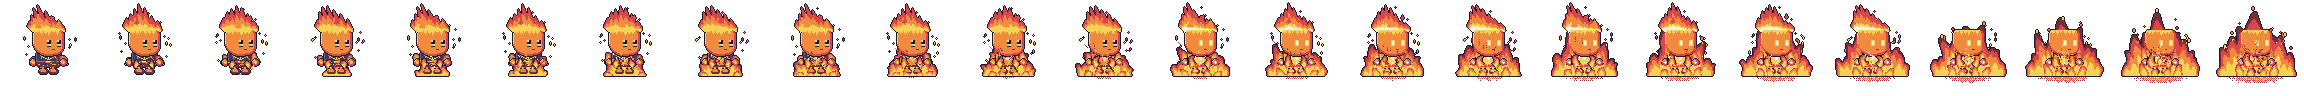
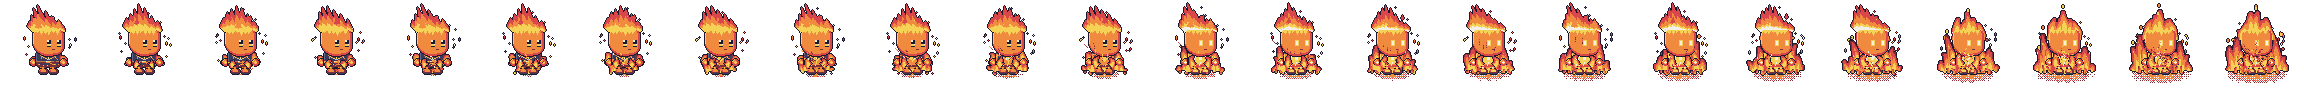
Inferno: tall flame crown, body-width blaze, broken ragged base, hollow front flames
Claude-Session: https://claude.ai/code/session_01J8LgTLVYzThXjNSRVhWqep

Changed region(s): [[0.125, 0.0938, 1.0, 0.8125], [0.5, 0.4688, 0.5625, 0.5625]]

diff --git a/tools/sprites/generate.py b/tools/sprites/generate.py
@@ -939,9 +939,10 @@ def flint(step=None, t=0, heat=0.0, form=False):
         flame_tongue(up, root, [r + (q - r) * reach for r, q in zip(root, ctrl)], [r + (q - r) * reach for r, q in zip(root, tip)],
                (t + k * 2) * math.pi / 2, wide=2.5 + heat)
     if form:  # flames licking up over his legs and hem in front of him (a thin soft layer, his body stays readable)
-        fire_tongues(up, 32, 57, [(-16, 15 * heat, 4.5, -0.25, 0.1, 1), (-6, 11 * heat, 4.0, -0.1, 0.6, 1),
-                                  (7, 12 * heat, 4.0, 0.1, 0.35, 1), (17, 15 * heat, 4.5, 0.25, 0.85, 1)],
-                     ((t + FIRE_PERIOD // 2) % FIRE_PERIOD) / FIRE_PERIOD, shift=-0.05, sway=1.5, sheds=False)
+        fire_tongues(up, 32, 57, [(-17, 13 * heat, 5.0, -0.25, 0.1, 1), (-9, 9 * heat, 4.0, -0.1, 0.6, 1),
+                                  (9, 10 * heat, 4.0, 0.1, 0.35, 1), (17, 13 * heat, 5.0, 0.25, 0.85, 1)],
+                     ((t + FIRE_PERIOD // 2) % FIRE_PERIOD) / FIRE_PERIOD, shift=-0.1, sway=1.2, sheds=False, ragged=3,
+                     hollow=0.3)
     fist(47, 3)  # front hand
     # wisps of flame breaking off him: each rises and shrinks away over 4 ticks, out of step (more when hot)
     # wisps of flame breaking off his edges: each drifts up and out and shrinks away over 4 ticks, out of step
@@ -995,13 +996,15 @@ FIRE_PERIOD = 4  # frames in the fire loop being drawn: 4 for idle, 8 for walk (
 
 
 def fire_tongues(c: Canvas, cx: int, base: int, tongues, u: float, shift: float = 0.0, sway: float = 2.5,
-                 sheds: bool = True) -> None:
+                 sheds: bool = True, ragged: int = 0, hollow: float = 0.0) -> None:
     """Real-looking pixel fire from soft teardrop tongues. Each tongue = (dx, height, width, lean, phase, beats):
     wide at the root, tapering to a rounded tip, its centre line an S-curve (it leans out and sways on a rolling wave),
     its height breathing `beats` whole times per loop (u 0..1), so a loop is seamless and nothing pops. Colour is the heat:
     white-yellow core near the root, then yellow, orange, red, maroon at the thin edges and tips. The tip of a tall tongue
     sheds a small flame that rises, shrinks and cools over the loop (never a lone pixel). A last pass removes specks and
-    1 px spikes. `shift` warms (+) or cools (-) everything."""
+    1 px spikes. `shift` warms (+) or cools (-) everything. `ragged` = depth (px) of the uneven underside: notches are cut
+    up between little tongues of different lengths (flickering on the loop), so the base is broken, not a flat edge. `hollow`
+    leaves the inner part of each tongue empty (below that lateral fraction), so what is behind shows through."""
     tau = math.tau
     n = c.size
     heat: dict[tuple[int, int], float] = {}
@@ -1021,12 +1024,20 @@ def fire_tongues(c: Canvas, cx: int, base: int, tongues, u: float, shift: float 
                 continue
             for x in range(int(xc - hw) - 1, int(xc + hw) + 2):
                 lat = abs(x - xc) / hw
-                if lat > 1.0 or not 0 < x < n - 1:
+                if lat > 1.0 or lat < hollow or not 0 < x < n - 1:
                     continue
                 h = (1.0 - v ** 1.5) * (1.0 - 0.75 * lat ** 1.5) + shift
                 if h > heat.get((x, y), -9.0):
                     heat[(x, y)] = h
         tips.append((cx + dx + lean * hcur * 0.9, base - hcur, hgt, w0, ph))
+    if ragged:
+        teeth = (5, 2, 4, 1, 5, 3, 2, 5, 1, 4, 3, 2, 5, 3, 4)
+        centres = [(cx - 33 + k * 4.6 + ((k * 5) % 3 - 1), teeth[k] / 5.0, k) for k in range(15)]
+        for (x, y) in list(heat):
+            reach = max(hh * ragged * (0.75 + 0.25 * math.sin(tau * (u + k * 0.37))) * max(0.0, 1 - abs(x - tx) / 2.6)
+                        for tx, hh, k in centres)
+            if y > base - ragged + reach:
+                del heat[(x, y)]
     for _ in range(2):  # no specks, no 1 px spikes
         drop = [(x, y) for (x, y) in heat
                 if ((x - 1, y) in heat) + ((x + 1, y) in heat) + ((x, y - 1) in heat) + ((x, y + 1) in heat) < 2
@@ -1043,7 +1054,7 @@ def fire_tongues(c: Canvas, cx: int, base: int, tongues, u: float, shift: float 
             f = (u + ph) % 1.0  # 0 just pinched off the tip, 1 gone
             size = 1.0 - f
             bx = round(tx + 2.5 * math.sin(tau * (f + ph)))
-            by = round(ty + 2 - 10 * f)
+            by = max(5, round(ty + 2 - 10 * f))
             col = (YELLOW, ORANGE, RED, MAROON)[min(3, int(f * 4))]
             if f < 0.4:
                 c.part(R((bx, by - 1, bx + 1, by + 1)), col, shade=False, line=False)
@@ -1051,11 +1062,15 @@ def fire_tongues(c: Canvas, cx: int, base: int, tongues, u: float, shift: float 
                 c.part(R((bx, by, bx + 1, by + 1)), col, shade=False, line=False)
 
 
-INFERNO_BACK = (  # (dx from his centre, height, width, lean, phase, beats): the blaze behind him, tall over his head, low at the sides
-    (0, 30, 24, 0.0, 0.0, 1),  # the mass of fire round his body (its edges are what shows)
-    (-10, 60, 12, -0.12, 0.1, 1), (0, 67, 13, -0.03, 0.45, 1), (10, 56, 12, 0.10, 0.8, 1),
-    (-19, 46, 9, -0.20, 0.6, 1), (19, 44, 9, 0.20, 0.25, 1),
-    (-27, 30, 8, -0.20, 0.3, 1), (27, 30, 8, 0.20, 0.7, 1), (-33, 20, 6, -0.2, 0.9, 1), (33, 20, 6, 0.2, 0.5, 1),
+INFERNO_BACK = (  # (dx from his centre, height, width, lean, phase, beats): the blaze rising off the ground round his body, hugging his shoulders and the sides of his head
+    (0, 26, 16, 0.0, 0.0, 1),  # the mass of fire round his body (its edges are what shows)
+    (-18, 50, 5.5, -0.08, 0.65, 1), (18, 46, 5.5, 0.08, 0.2, 1),
+    (-23, 34, 5.0, -0.12, 0.45, 1), (23, 30, 5.0, 0.12, 0.8, 1), (-27, 20, 4.5, -0.14, 0.9, 1), (27, 18, 4.5, 0.14, 0.3, 1),
+)
+INFERNO_CROWN = (  # the flame crown, rooted on his head: tongues of varied height, tallest in the middle / back, leaning together
+    (0, 9, 16, 0.0, 0.0, 1),
+    (-13, 27, 5.2, 0.16, 0.6, 1), (-6.5, 33, 5.5, 0.09, 0.1, 1), (0, 35, 5.6, 0.0, 0.45, 1), (6.5, 30, 5.5, -0.09, 0.8, 1),
+    (13, 25, 5.0, -0.16, 0.3, 1),
 )
 
 
@@ -1070,7 +1085,10 @@ def inferno_fire(t: int, dy: int, heat: float = 1.0) -> Canvas:
         return c
     base = PAD + 59
     fire_tongues(c, CELL // 2, base, [(dx * h ** 0.5, hg * h ** 0.6, w * h ** 0.5, ln, ph, bt) for dx, hg, w, ln, ph, bt in INFERNO_BACK],
-                 u, shift=-0.12, sheds=h > 0.7)
+                 u, shift=-0.12, sheds=h > 0.7, ragged=6)
+    root = PAD + UPPER_DY + dy + HEAD[1] + 9  # the crown grows out of the head's top edge
+    fire_tongues(c, CELL // 2, root, [(dx * h ** 0.5, hg * h ** 0.6, w * h ** 0.5, ln, ph, bt) for dx, hg, w, ln, ph, bt in INFERNO_CROWN],
+                 u + 0.15, shift=-0.02, sheds=h > 0.7, sway=1.8)
     return fill_notches(c)
 
 

diff --git a/CLAUDE.md b/CLAUDE.md
@@ -111,7 +111,7 @@ A mobile real-time PvP arena shooter. Combat feel is inspired by top-down roguel
   | **Thorn Burst** `thorn_burst` | Eden | VOLLEY | a ring of 14 thorns all round her (close-range peel) | 9 dmg each, 520 px/s, range 200, knockback 140, cd 8 |
   Art (generate.py "More abilities" block): `rift_form/loop/end` (128 px floor spiral, turns, period 8), `rift_lash` (16-frame tendril whip), `spike_mark/burst/scorch` (burst impact frame 2, like the thunder strips), `coil_grow/idle/fire/wilt` (64 px, foot on row 56), `coil_zap` projectile, `arc_trail` (32 px tile, bolt ends 3 px in, tiled `ARC_STEP` 25 apart from takeoff to him by `SpecialFx._draw_arc`) + `arc_go` / `arc_land` bursts, `thorn_burst` (14-frame flourish) + `thorn_burst` projectile, icons `void_rift` / `umbral_spikes` / `tesla_coil` / `arc_dash` / `thorn_burst`. Tests: `tests/test_more_abilities.gd` (+ ids in `test_catalog_and_skills`, Shadow's bot rotation now 5). Smoke: 80 combos, 0 SCRIPT ERROR. Numbers are a first guess (balance not simulated).
 - **Three specials** (2026-11-01, `three-specials`): `Constants.SKILL_SLOTS` = 3. `InputFrame.special2` (`FLAG_SPECIAL2` 16; `pressed_slots()` = [skill, special, special2] indexed by slot); `Player._prev_skills` / `skill_locked(slot)` / snapshots were already per-slot, `set_skill` now swaps with whichever slot holds the pick; `Player.default_skills` = Dash, signature, then the next own-tagged special (else next generic); a fighter with <3 eligible specials repeats its pool (only the benched Warden / Gunnar: Dash + Barrier). All 6 in-rotation fighters have >= 5. `LanDiscovery.VERSION` 3. Loading room: "Choose 3 specials", badges 1/2/3, a new pick replaces the least recently set slot (cycles 1,2,0). Touch: third button straight above FIRE (`SPECIAL2_OFFSET` (0,-152): hit areas clear of FIRE and the other specials, tested), own ready pulse / cooldown / padlock; desktop keys Q / F (`special2` action), HUD lists "Q". Bots press any ready slot (`BotBrain._use_specials`, `rotates_kit` still rotates slot 1), `balance_sim` SimBot presses slots 1 and 2. Tests: `tests/test_three_slots.gd`, 3-slot cases in `test_one_ability.gd`, `test_net.gd`, `test_game_feel.gd`. Screens checked at 2532x1170 (ratio 3) and 1334x750 (ratio 2; ratio 3 at 1334 is not a real device and makes the whole UI huge).
-- **Inferno flames** (2026-11-02, `inferno-flames`, art only): the "random spikes" were the old fire: straight triangular tongues from `flame()` (crown, bonfire, fists), 3-point triangles on his feet, pointed `flame_tongue` beziers on his front / legs / sides, diamond wisps and a 1 px flame line off each eye, all re-rolled every tick with no continuity. Now generate.py `fire_tongues` draws soft teardrop tongues (wide root, S-curve centre line, blunt round tip, height breathing a whole number of times per loop so nothing pops), coloured by heat (yellow core, orange, red, maroon rim; white only at the very root), a 2-pass cleanup drops specks and 1 px spikes, and tall tongues shed a small 2 px flame that rises, shrinks and cools over the loop. `inferno_fire(t, dy, heat)` (the `CROWNS` entry of `flint_inferno`) is the whole blaze behind him (`INFERNO_BACK`: tall crown over the head, mass + side licks); in front he only has a soft low layer over his legs, the fists are small soft flames. `flint(..., form=True)` selects this (Inferno + morph); `form=False` keeps the old bonfire for Flare Burst's charge pose (`flint_ragged_base` is kept for it). The loop is `FIRE_PERIOD` frames (module global set by `frames()`: 4 for idle, 8 for walk, 8 in the morph so its 24 frames loop it 3 times); frame counts and fps are unchanged (idle 4 / walk 8 / morph 24), so no constants changed. Ground glow no longer has its own ember dots.
+- **Inferno flames** (2026-11-02, `inferno-flames`, art only): the "random spikes" were the old fire: straight triangular tongues from `flame()` (crown, bonfire, fists), 3-point triangles on his feet, pointed `flame_tongue` beziers on his front / legs / sides, diamond wisps and a 1 px flame line off each eye, all re-rolled every tick with no continuity. Now generate.py `fire_tongues` draws soft teardrop tongues (wide root, S-curve centre line, blunt round tip, height breathing a whole number of times per loop so nothing pops), coloured by heat (yellow core, orange, red, maroon rim; white only at the very root), a 2-pass cleanup drops specks and 1 px spikes, and tall tongues shed a small 2 px flame that rises, shrinks and cools over the loop. `inferno_fire(t, dy, heat)` (the `CROWNS` entry of `flint_inferno`) is the whole blaze behind him: `INFERNO_BACK` (a body-width mass + narrow shoulder / head-side tongues rooted on the ground, width about the old version's ~64 px) and `INFERNO_CROWN` (five varied tongues rooted on his head's top edge, tallest in the middle, leaning together, tips shedding embers); `fire_tongues(ragged=N)` cuts uneven notches up the underside (flickering on the loop) so the base is broken with the ground glow showing between tongues, never a flat outlined edge; in front he has only a thin hollow layer (`hollow=0.3`: two strands per tongue so his belt / legs read through) and the fists are small soft flames. Keep every tongue top >= row 3 of the cell (the sheet check fails on a sprite touching the frame edge). `flint(..., form=True)` selects this (Inferno + morph); `form=False` keeps the old bonfire for Flare Burst's charge pose (`flint_ragged_base` is kept for it). The loop is `FIRE_PERIOD` frames (module global set by `frames()`: 4 for idle, 8 for walk, 8 in the morph so its 24 frames loop it 3 times); frame counts and fps are unchanged (idle 4 / walk 8 / morph 24), so no constants changed. Ground glow no longer has its own ember dots.
 - **Ability transitions** (2026-11-01, `ability-transitions`, cosmetic only): Petal Drift dissolve / reform are now 24 frames at 60 fps (`DISSOLVE_STRIP_FRAMES`, generate.py `DISSOLVE_FRAMES`, `drift_plan`): her outline (hair, hem, hands) peels off first, each chunk carries its own pixels, bulges outward, crumbles into a petal and spirals into its swirl slot; the reform is that backwards. The swirl loops a whole number of times between the two (`_draw_drift`), so it ends on the frame the reform starts on; facing / heading and lean ease over the dissolve and reform instead of snapping; a drift cut short (stun) reforms from the same frame. Her sprite fades out under the first dissolve frame and fades in under the reform's last `REFORM_FADE` (`SpecialFx.owner_alpha`). Every held weapon now fades out / in over `Player.GUN_FADE_TIME` when a pose replaces him (`_gun_fade`, `_gun_suppressed`) instead of popping. `SpecialFx.process_priority` -100 fixes a one-frame blank when a pose ended (the Player read stale state). Follow-ups: the dissolve erodes over the whole strip (~5% of her pixels per frame, `drift_plan` start times 0.02..0.62, chunk pixels dither away over the full run); going ghostly (i-frames, hidden in smoke) eases via `Player._ghost_a` (`GHOST_FADE_TIME`) instead of jumping 1 -> 0.45; Flare Burst's charge pose fades out over the ring's flash (`FLARE_FADE_OUT`); the Blossom Ward floor glow fades after it ends (`WARD_GLOW_FADE`); Leaf Gust fades over its last 0.12 s. Inferno's blaze sits over a dithered ground glow laid under the outlined sprite (`flint_ground_glow`, `GROUND_GLOWS`, also on the morph strip); its flames were redone 2026-11-02, see below. Test-only flags for previews: `--press-special S` (autopilot presses the special every S seconds even with nobody in sight) and `--passive` (an autopilot that stands still), used to record a client's view of a host's Petal Drift / Great Ape / Smoke Bomb. Preview tool: `tools/transition_preview.gd` (char= special= move= aim= press= target= edge=, see its header); Gloom Hound redesign (round-2 concept B, in the game): `generate.py hound_body` is a near-black wolf built from one smooth mask (`HdMask`: ellipses + tapered limbs, no seams), violet rim from the top left (`hd_light`), near legs lighter / far legs darkest, a smoke mane of clean 1 px wisps (`hd_wisp`), glowing eye; `hound_run` is now 6 frames (`HOUND_RUN_FRAMES`, `SpecialFx.HOUND_RUN_FPS` 12), bite opens the jaw and throws the head forward, rise / melt use the puddle + floor clip; `SpecialFx._draw_hound_floor` gives it the fighters' soft ground shadow. Concept scripts `tools/sprites/hound_concepts*.py` are previews only.
 - **Great Ape redesign** (2026-11-01, `great-ape-detail`, art only, no gameplay change): the ape (generate.py `wukong_ape`) keeps its silhouette, proportions and gorilla head but is now Apex's own armour burst on a bigger body: a cracked Trojan-style muscle cuirass (`ape_cuirass`: arched neckline, jagged split that opens at the top with fur bulging through and tapers at the abs, diagonal pec crack, pec domes / ab blocks, missing bottom-right corner, snapped waist straps) held up by two twisted ropes over the shoulders (`ape_ropes`), a split pauldron (`ape_pauldron`), a snapped bracer and chipped circlet, torn sash scraps, floor shards (`ape_metal` = the shared gold ramp); the cuirass is drawn under the arms so a smash crosses it. Face (`ape_face`): darker brown disc, V brow, slanted red eyes (X eyes on KO), flat nose, closed snarl with two long upper canines. The old 64 px `ape_storm` is replaced by a CELL-sized storm (`ape_aura`: lumpy indigo / steel clouds (VIOLET_D, NAVY, STEEL_D, never his fur shade) massed behind his head and shoulders, ONE red-orange fork that moves round the 4-frame loop, `ape_wisps` smooth cloud curls round forearm / hip / ankle drawn after the outline, embers) with a 1 px gap round the body that the outline turns dark. The sheet is hand-built (`SHEETS["wukong_ape"] = ape_sheet`, same 29 frames: idle 4, hit 2, walk 8, death 8 (no aura), attack 7); the morph strip (`ape_morph`) cracks Apex's yellow armour from the neckline down, opens the split with fur showing, becomes the cuirass, then the ropes and pauldron appear, with the new clouds gathering; the morph's final frame is the new idle scaled x1.35 (`morph_frames.at` crops anything past the cell). Design concepts live only in git history (rounds 1 to 13).
 - **Bug sweep 2** (2026-11-01, `bug-sweep-2`): a special/skill button held (or tapped) while dead no longer fires on the respawn frame (`Player.simulate` keeps `_prev_skills` current while dead); `MatchController.remove_player(id, scores, humans)` ends a running match when no human is left in it (bots alone, spectator waiting; `MatchRules.has_human`); a listen-server host takes one of the `MAX_CLIENTS` seats (`NetSession.start_server(..., max_clients)`, host passes `MAX_CLIENTS - 1`: a fifth human could connect but never start); snapshots go out as one packet per `SNAPSHOT_PLAYERS_PER_PACKET` (2) players sharing a tick (`NetServer.snapshot_packets`; ~440 B per player, a 4-player snapshot was 1.8 KB, above ENet's MTU 1392 and fragmented; `NetClient.on_snapshot` merges packets of one tick; `LanDiscovery.VERSION` 2); `tools/balance_sim.gd` no longer leaks an `Arena` that never entered the tree (that was the exit "RID leaked / resources still in use" warning: an `Arena` only parents its crates / pickups / projectiles in `_ready`, so one freed outside the tree leaks them; a normal game exit with `--verbose` is clean). Tests: `tests/test_sweep2.gd`, `tests/test_match.gd`. Known, not fixed: the server prints "Unable to send packet on channel N" when two clients vanish in the same poll (rpc to a peer ENet already dropped).
